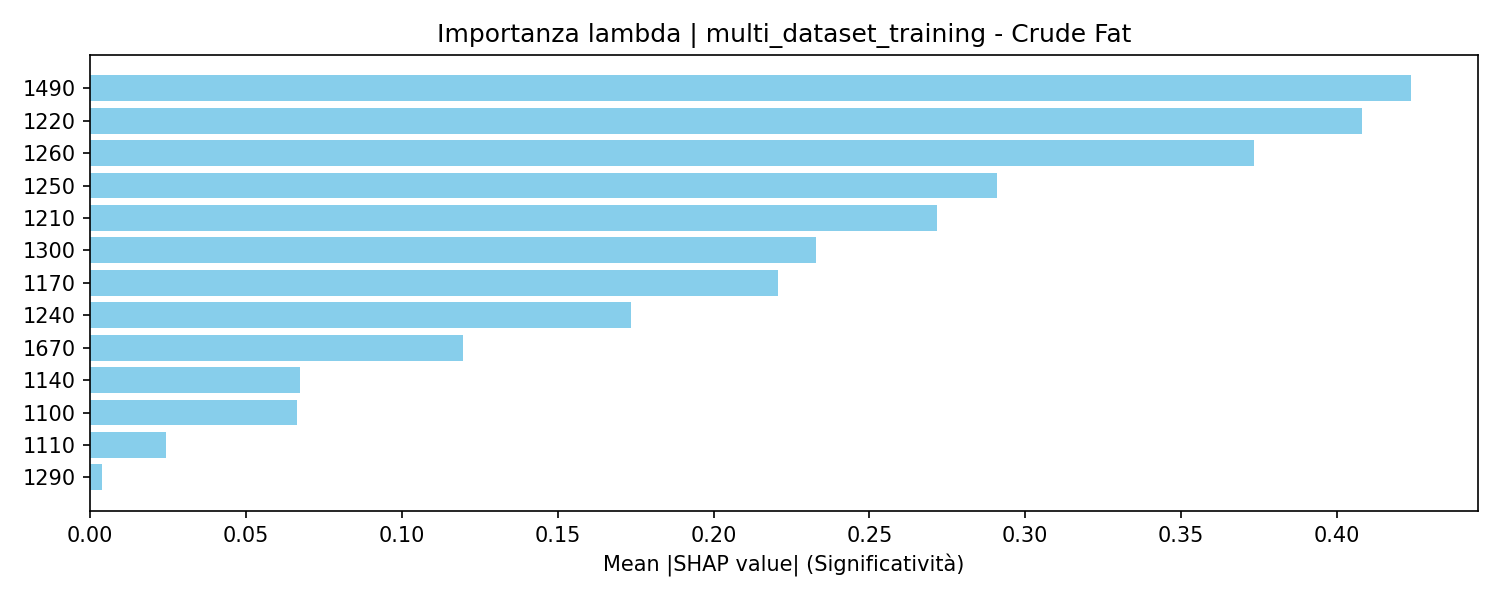
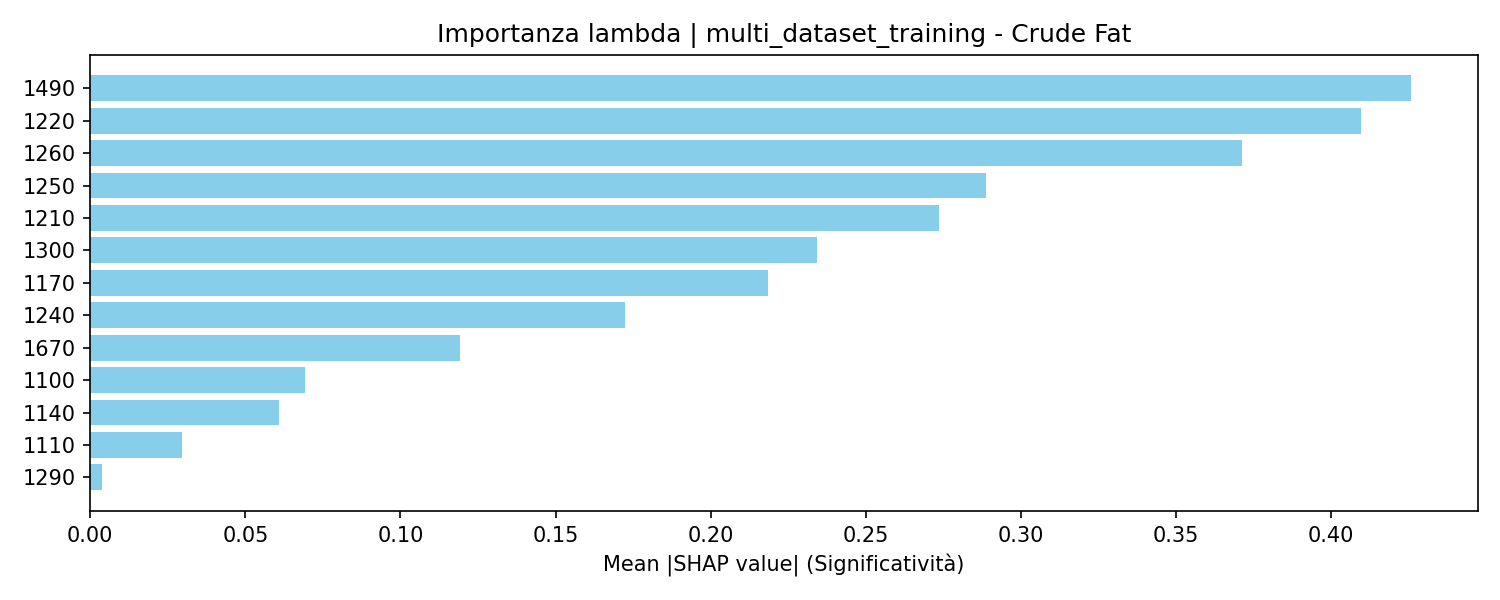
Add temperature repeatability for SVM

diff --git a/robust_temperature.py b/robust_temperature.py
@@ -6,8 +6,9 @@ import pandas as pd
 from shap_analysis import get_models, MODELS_PATH, ROOT
 
 DATA_PATH = "/Users/u0186653/Desktop/research/dingen/raw/Grain"
+model_name = "svm"
 training_set = '58freqs'
-OUT_PATH = ROOT / "outputs" / "xgb" 
+OUT_PATH = ROOT / "outputs" / model_name
 
 # Esecuzione delle previsioni
 def esegui_previsioni(inputs, models, samples_temp):

diff --git a/robust_temperature_unif.py b/robust_temperature_unif.py
@@ -6,8 +6,9 @@ import pandas as pd
 from shap_analysis import get_models, MODELS_PATH, ROOT
 
 DATA_PATH = "/Users/u0186653/Desktop/research/dingen/raw/Grain"
+model_name = "svm"
 training_set = '58freqs'
-OUT_PATH = ROOT / "outputs" / "xgb" 
+OUT_PATH = ROOT / "outputs" / model_name
 
 # Esecuzione delle previsioni
 def esegui_previsioni(inputs, models, samples_temp):
